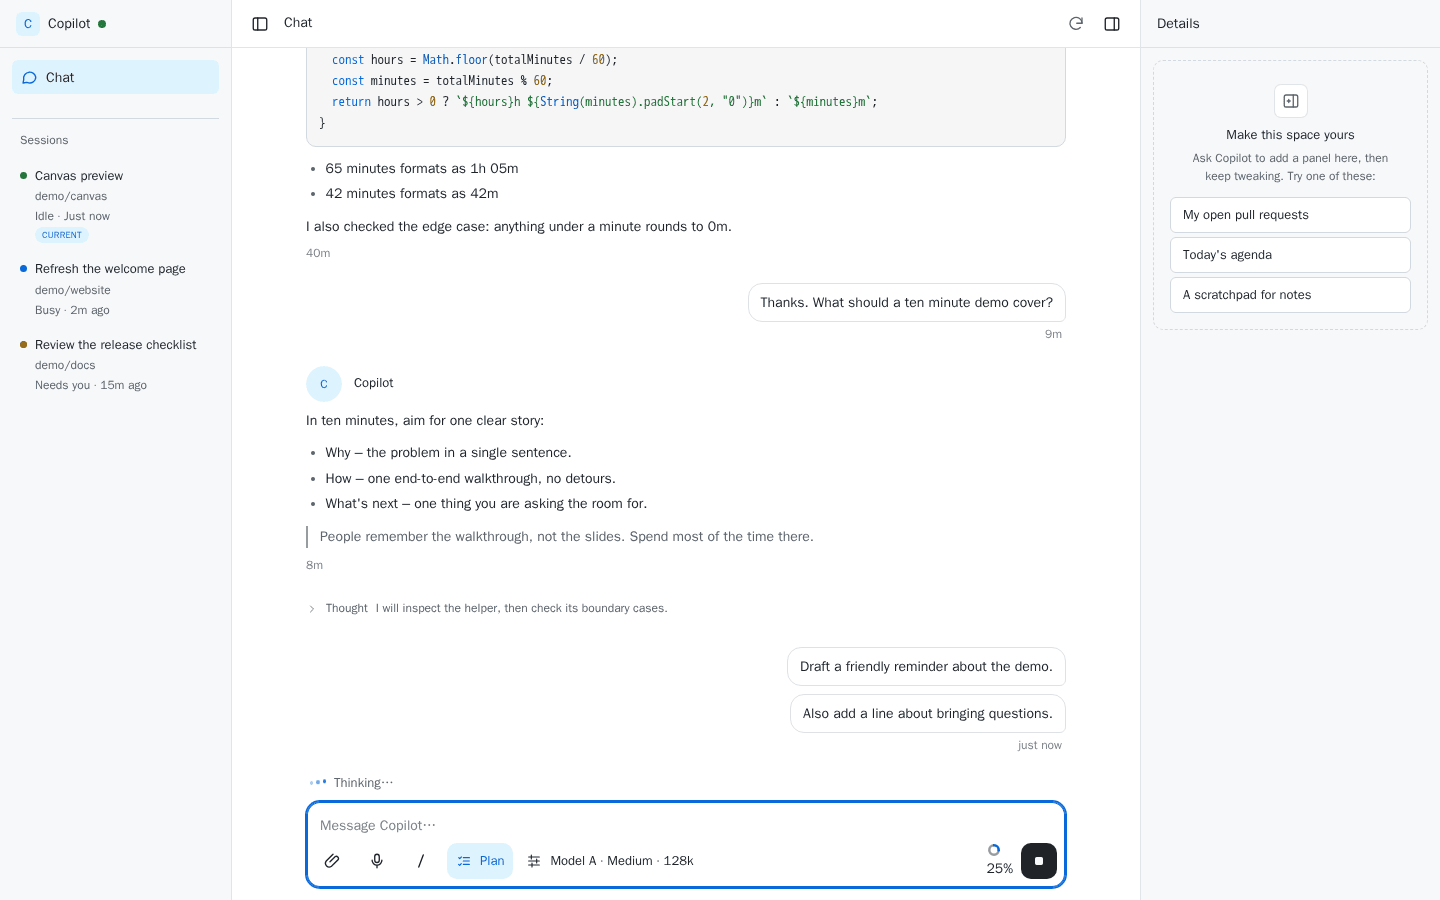
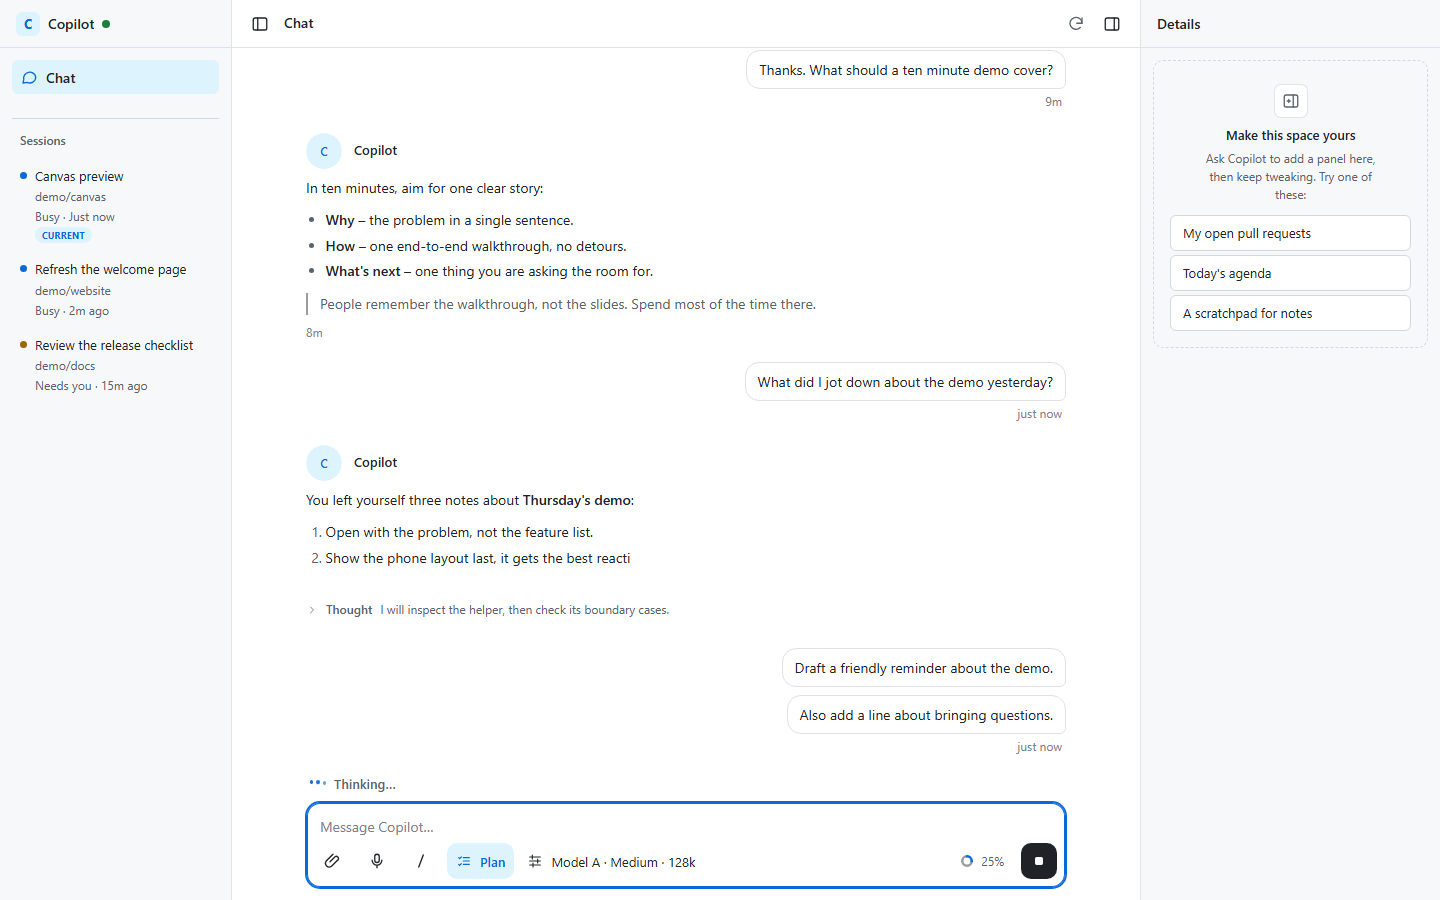
Refresh screenshots with the fixed context meter; major-only dependency ranges; drop monthly-limits warning

diff --git a/.github/skills/setup-copilot-companion/SKILL.md b/.github/skills/setup-copilot-companion/SKILL.md
@@ -12,7 +12,7 @@ does not run any of it.
 **For Copilot.** Get the user to a canvas they own, on desktop and on their phone, as fast as you
 can. Then help them change it and set up the rest of their Copilot, while builders write the code
 in the background. Use the platform's shell and paths (Windows or macOS). The user needs a GitHub
-account with any Copilot plan (Copilot Free works, within its monthly limits) and the GitHub
+account with any Copilot plan (Copilot Free works) and the GitHub
 Copilot app; README.md lists the rest. `<FOLDER>` is their copy's folder, `~/repos/copilot-companion`
 unless they chose another.
 

diff --git a/README.md b/README.md
@@ -37,8 +37,8 @@ questions and approvals from anywhere, and ask Copilot to add panels or change h
 
 ## What you need
 
-- A GitHub account with any Copilot plan. [Copilot Free](https://github.com/features/copilot/plans)
-  works, but its monthly limits can run out during setup. On Copilot Business or Enterprise, your
+- A GitHub account with any Copilot plan, including
+  [Copilot Free](https://github.com/features/copilot/plans). On Copilot Business or Enterprise, your
   organization must leave the GitHub Copilot app policy on (it is on by default).
 
 ## What you get
